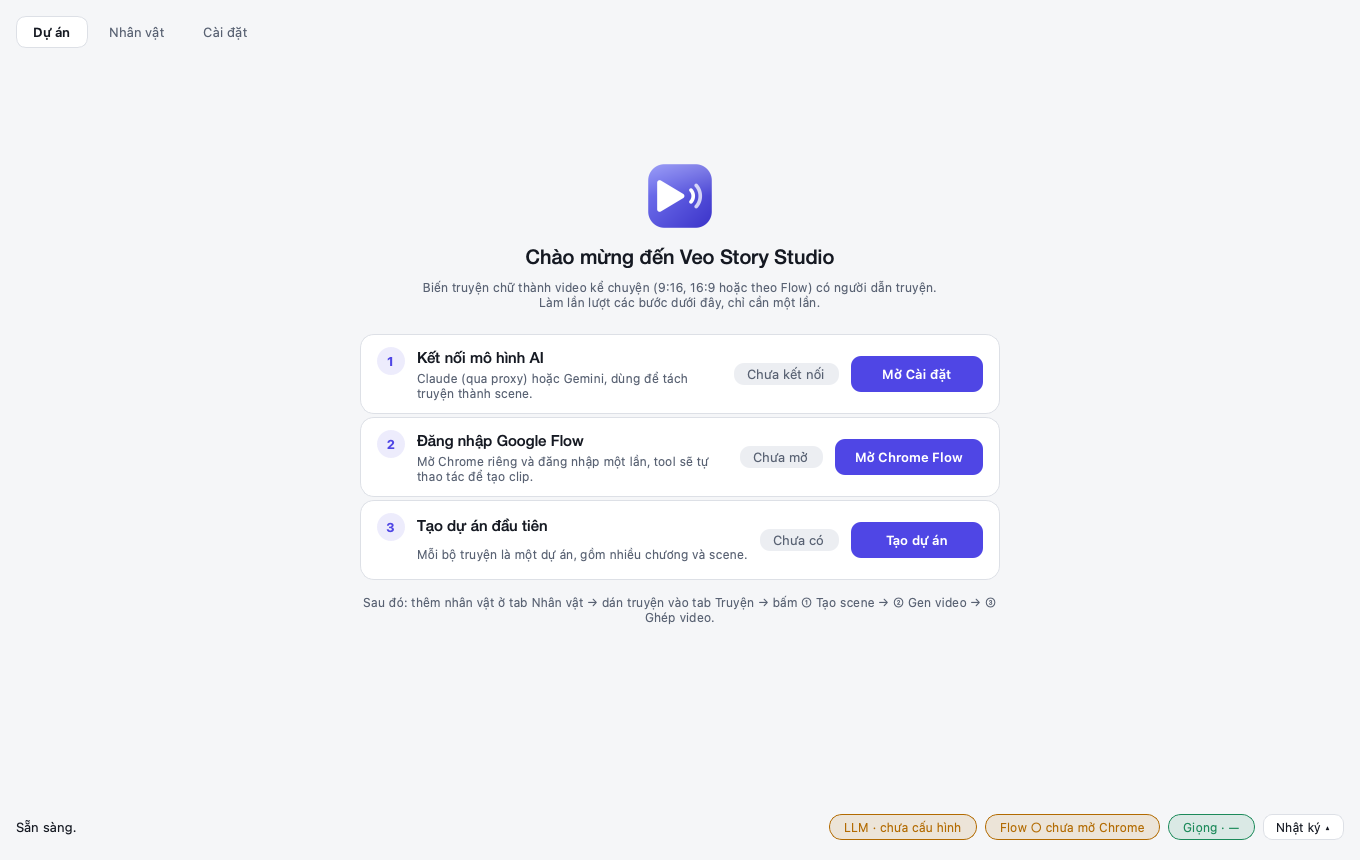
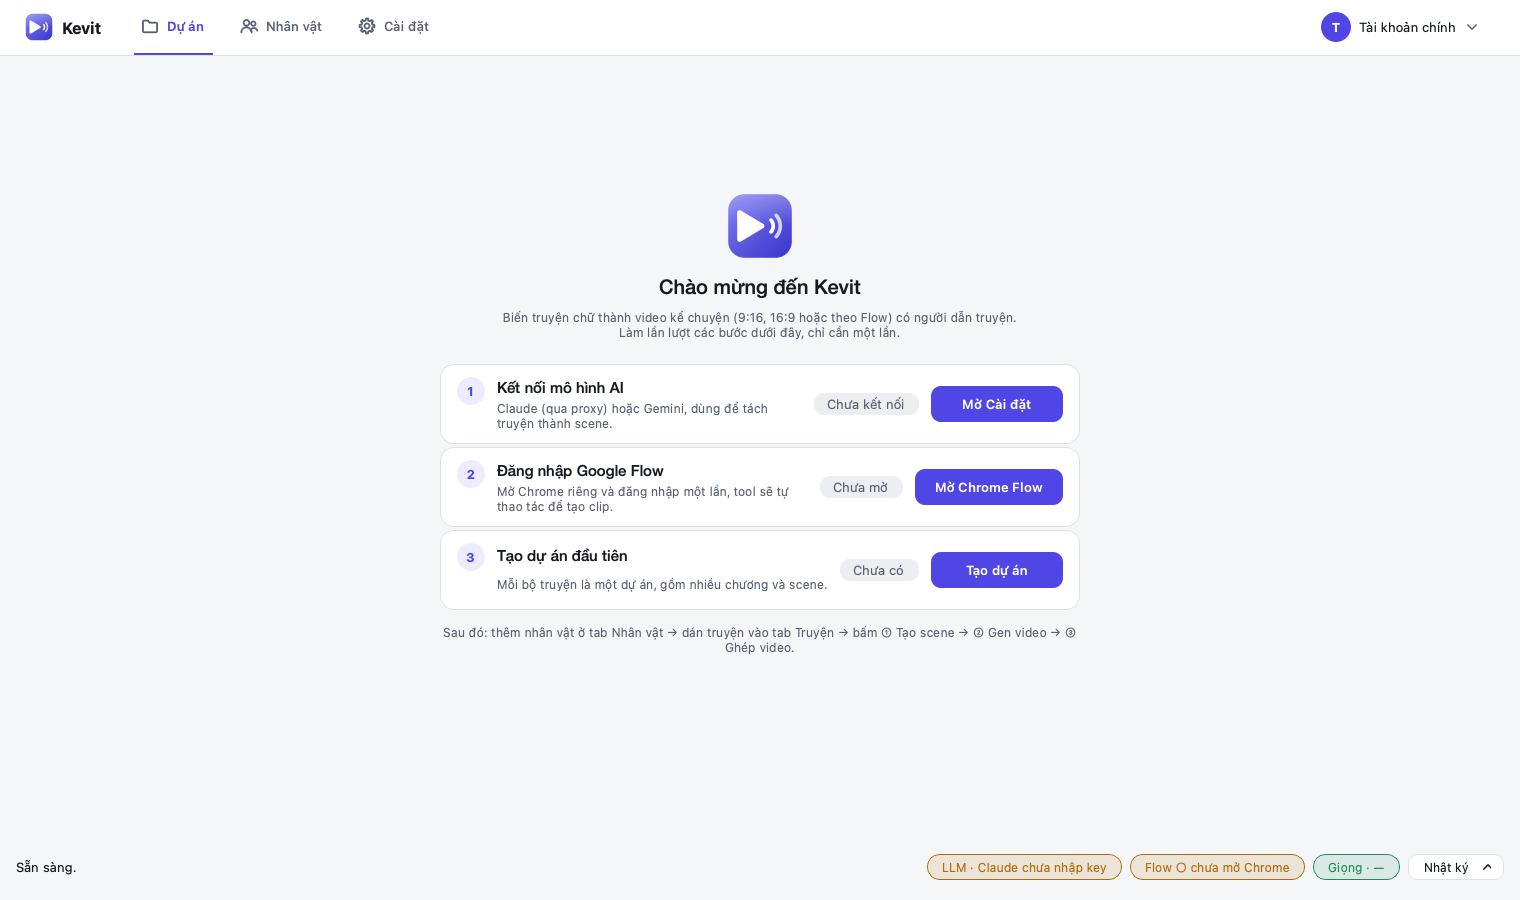
README: thay toàn bộ ảnh bằng giao diện mới v1.5 (Dự án, Nhân vật, Google Flow, Mô hình AI, chào mừng, chế độ tối), cập nhật phần Giao diện và bước Google Flow

diff --git a/README.md b/README.md
@@ -84,10 +84,16 @@ Làm video từ một bộ truyện dài thường vỡ ở ba chỗ: nhân vậ
 
 ## Giao diện
 
+Thanh trên cùng gồm ba mục **Dự án · Nhân vật · Cài đặt** và chip tài khoản Flow đang dùng; thanh dưới cùng là các chip trạng thái nhanh (mô hình AI, tài khoản Flow kèm credit, giọng đọc) bấm vào để đổi ngay.
+
 <table>
   <tr>
+    <td width="50%"><img src="docs/images/nhan-vat.png" alt="Trang Nhân vật"><br><sub><b>Nhân vật:</b> danh sách thẻ có tìm kiếm và lọc, ảnh lớn, mô tả prompt kèm đếm từ. (Dự án mẫu tự viết, ảnh là hình minh hoạ vẽ bằng mã.)</sub></td>
+    <td width="50%"><img src="docs/images/google-flow.png" alt="Cài đặt Google Flow"><br><sub><b>Google Flow:</b> thẻ từng tài khoản kèm credit, thống kê chi tiết, gia hạn và công tắc tự chuyển tài khoản.</sub></td>
+  </tr>
+  <tr>
+    <td width="50%"><img src="docs/images/mo-hinh-ai.png" alt="Cài đặt mô hình AI"><br><sub><b>Mô hình AI:</b> thêm nhiều mô hình, chọn mô hình đang dùng.</sub></td>
     <td width="50%"><img src="docs/images/chao-mung.png" alt="Màn hình chào mừng lần đầu mở"><br><sub><b>Lần đầu mở:</b> các bước thiết lập có trạng thái thật.</sub></td>
-    <td width="50%"><img src="docs/images/nhan-vat.png" alt="Quản lý nhân vật"><br><sub><b>Nhân vật:</b> ảnh, tên Hán, vai trò, mô tả prompt. (Dự án mẫu tự viết, ảnh là hình minh hoạ vẽ bằng mã.)</sub></td>
   </tr>
   <tr>
     <td colspan="2"><img src="docs/images/tong-quan-toi.png" alt="Chế độ tối"><br><sub><b>Chế độ tối.</b></sub></td>
@@ -145,7 +151,7 @@ flowchart LR
 ```
 
 1. **Cài đặt:** vào *Cài đặt → Mô hình AI*, thêm mô hình (chọn mẫu Claude, Gemini, OpenAI, OpenRouter, DeepSeek, Ollama…), nhập key (hoặc đặt biến môi trường `ANTHROPIC_API_KEY` / `OPENAI_API_KEY` / `GEMINI_API_KEY`), bấm *Lưu và thử kết nối* rồi *Dùng mô hình này*. Tab Cài đặt chia mục: Mô hình AI · Gemini · Google Flow · Dữ liệu.
-2. **Google Flow:** bấm *Mở Chrome Flow*, đăng nhập Google **một lần** trong cửa sổ Chrome riêng đó. Tool chỉ thao tác trên tab Flow.
+2. **Google Flow:** vào *Cài đặt → Google Flow* bấm *Mở Chrome để đăng nhập* (hoặc *Mở Chrome Flow* ở menu *Khác* trong trang Dự án), đăng nhập Google **một lần** trong cửa sổ Chrome riêng đó. Tool chỉ thao tác trên tab Flow.
 3. **Nhân vật:** thêm từng nhân vật (ảnh, mô tả tiếng Anh dùng làm prompt, tên gọi khác), nhập theo lô, hoặc để AI đề xuất từ truyện.
 4. **Dự án:** tạo dự án, dán truyện từng chương vào tab *Truyện*, rồi đi lần lượt ba bước **① Tạo scene → ② Gen video → ③ Ghép video**.
 
